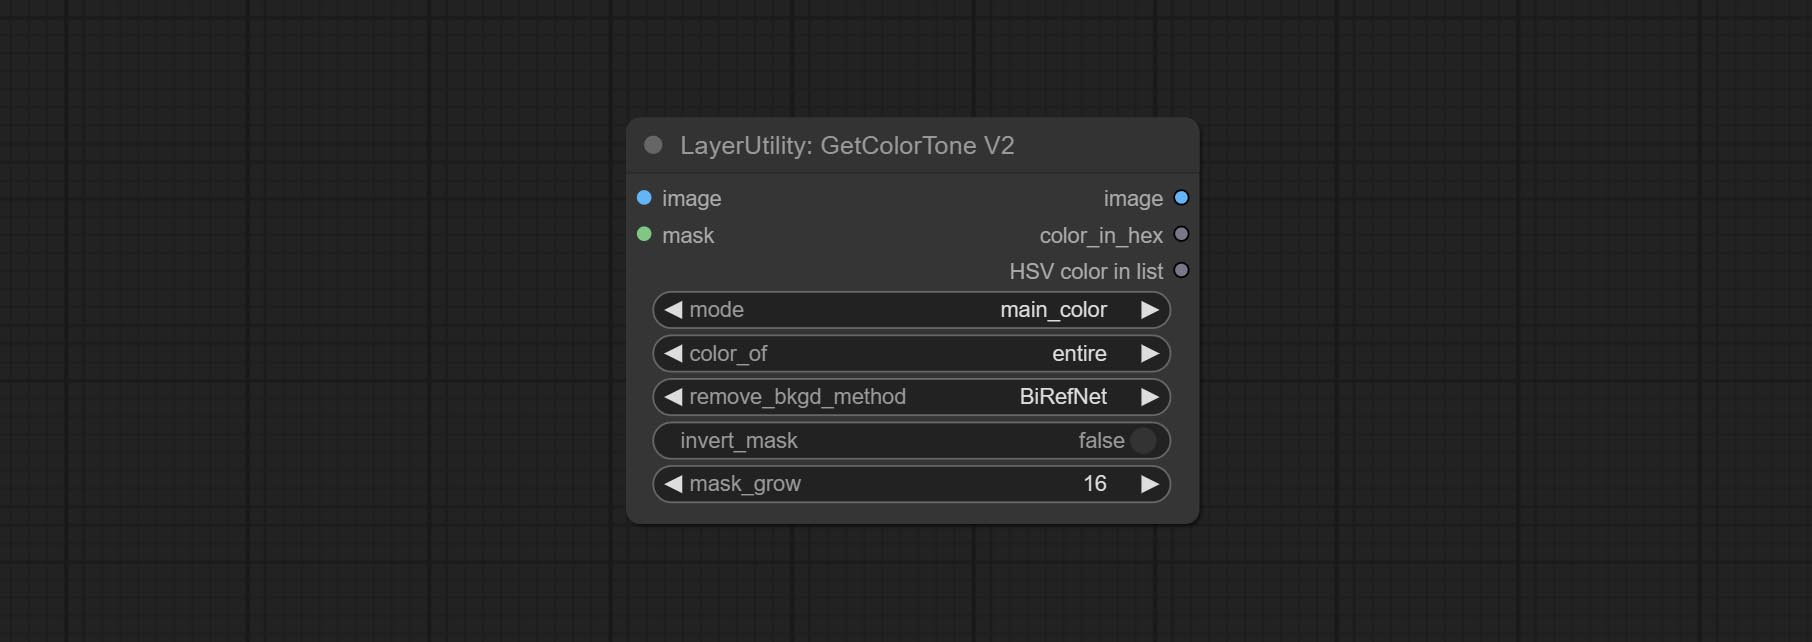
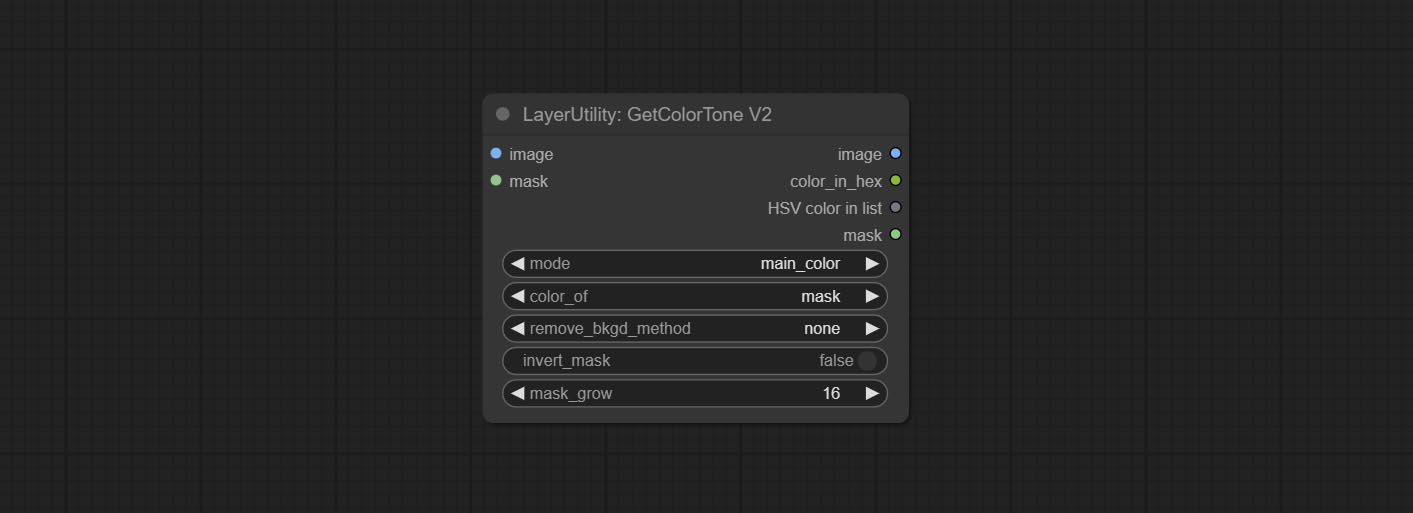
GetColorToneV2 node add 'mask' method of color_of option

Changed region(s): [[0.3425, 0.2807, 0.6539, 0.8421], [0.3425, 0.1871, 0.5605, 0.2495], [0.3425, 0.2807, 0.4048, 0.3743]]

diff --git a/py/get_color_tone_v2.py b/py/get_color_tone_v2.py
@@ -9,8 +9,8 @@ class GetColorToneV2:
 
     @classmethod
     def INPUT_TYPES(self):
-        remove_background_list = ['BiRefNet', 'RMBG 1.4',]
-        subject_list = ['entire', 'background', 'subject']
+        remove_background_list = ['none','BiRefNet', 'RMBG 1.4',]
+        subject_list = ['mask','entire', 'background', 'subject']
         mode_list = ['main_color', 'average']
         return {
             "required": {
@@ -19,15 +19,15 @@ class GetColorToneV2:
                 "color_of": (subject_list,),
                 "remove_bkgd_method": (remove_background_list,),
                 "invert_mask": ("BOOLEAN", {"default": False}),  # 反转mask#
-                "mask_grow": ("INT", {"default": 16, "min": -999, "max": 999, "step": 1}),
+                "mask_grow": ("INT", {"default": 0, "min": -999, "max": 999, "step": 1}),
             },
             "optional": {
                 "mask": ("MASK",),  #
             }
         }
 
-    RETURN_TYPES = ("IMAGE", "STRING", "LIST",)
-    RETURN_NAMES = ("image", "color_in_hex", "HSV color in list",)
+    RETURN_TYPES = ("IMAGE", "STRING", "LIST", "MASK")
+    RETURN_NAMES = ("image", "color_in_hex", "HSV color in list", "mask",)
     FUNCTION = 'get_color_tone_v2'
     CATEGORY = '😺dzNodes/LayerUtility'
 
@@ -38,6 +38,7 @@ class GetColorToneV2:
         _images = []
         _masks = []
         ret_images = []
+        ret_masks = []
         need_rmbg = False
         for i in image:
             _images.append(torch.unsqueeze(i, 0))
@@ -45,14 +46,15 @@ class GetColorToneV2:
             if m.mode == 'RGBA':
                 _masks.append(1 - image2mask(m.split()[-1]))
             else:
-                need_rmbg = True
+                _masks.append(pil2tensor(Image.new("L", (m.width, m.height), color="white")))
+                if remove_bkgd_method != 'none':
+                    need_rmbg = True
+
         if mask is not None:
             if mask.dim() == 2:
                 mask = torch.unsqueeze(mask, 0)
             _masks = []
             for m in mask:
-                if not invert_mask:
-                    m = 1 - m
                 _masks.append(torch.unsqueeze(m, 0))
             need_rmbg = False
 
@@ -71,32 +73,40 @@ class GetColorToneV2:
                 else:
                     _mask = RMBG(_image)
                 _mask = image2mask(_mask)
-                _mask = 1 - _mask
             else:
                 _mask = _masks[i] if i < len(_masks) else _masks[-1]
+
+            if invert_mask:
+                _mask = 1 - _mask
 
             if mask_grow != 0:
                 _mask = expand_mask(_mask, mask_grow, 0)  # 扩张，模糊
 
-            if color_of == 'subject':
-                _mask = 1 - _mask
-
             if color_of == 'entire':
                 blured_image = gaussian_blur(_image, int((_image.width + _image.height) / 400))
             else:
+                if color_of == 'background':
+                    _mask = 1 - _mask
                 _mask = tensor2pil(_mask)
                 pixel_spread_image = pixel_spread(_image, _mask.convert('RGB'))
                 blured_image = gaussian_blur(pixel_spread_image, int((_image.width + _image.height) / 400))
-            if mode == 'main_color':
+
+            ret_color = '#000000'
+            if mode == 'main_color' and color_of != 'mask':
                 ret_color = get_image_color_tone(blured_image)
-            else:
+            elif mode == 'average' and color_of != 'mask':
                 ret_color = get_image_color_average(blured_image)
+            elif mode == 'main_color' and color_of == 'mask':
+                ret_color = get_image_color_tone(blured_image, mask=_mask)
+            elif mode == 'average' and color_of == 'mask':
+                ret_color = get_image_color_average(blured_image, mask=_mask)
 
             ret_image = Image.new('RGB', size=_image.size, color=ret_color)
             ret_images.append(pil2tensor(ret_image))
+            ret_masks.append(pil2tensor(_mask))
         log(f"{NODE_NAME} Processed {len(ret_images)} image(s).", message_type='finish')
         hsv_color = RGB_to_HSV(Hex_to_RGB(ret_color))
-        return (torch.cat(ret_images, dim=0), ret_color, hsv_color,)
+        return (torch.cat(ret_images, dim=0), ret_color, hsv_color, torch.cat(ret_masks, dim=0),)
 
 NODE_CLASS_MAPPINGS = {
     "LayerUtility: GetColorToneV2": GetColorToneV2

diff --git a/py/imagefunc.py b/py/imagefunc.py
@@ -893,12 +893,22 @@ def adjust_levels(image:Image, input_black:int=0, input_white:int=255, midtones:
     img = img.astype(np.uint8)
     return cv22pil(img)
 
-
-def get_image_color_tone(image:Image) -> str:
+def get_image_color_tone(image:Image, mask:Image=None) -> str:
     image = image.convert('RGB')
     max_score = 0.0001
     dominant_color = (255, 255, 255)
-    for count, (r, g, b) in image.getcolors(image.width * image.height):
+    if mask is not None:
+        if mask.mode != 'L':
+            mask = mask.convert('L')
+        canvas = Image.new('RGB', size=image.size, color='black')
+        canvas.paste(image, mask=mask)
+        image = canvas
+
+    all_colors = image.getcolors(image.width * image.height)
+    for count, (r, g, b) in all_colors:
+        if mask is not None:
+            if r + g + b < 2:  # 忽略黑色
+                continue
         saturation = colorsys.rgb_to_hsv(r / 255.0, g / 255.0, b / 255.0)[1]
         y = min(abs(r * 2104 + g * 4130 + b * 802 + 4096 + 131072) >> 13,235)
         y = (y - 16.0) / (235 - 16)
@@ -909,22 +919,29 @@ def get_image_color_tone(image:Image) -> str:
     ret_color = RGB_to_Hex(dominant_color)
     return ret_color
 
-def get_image_color_average(image:Image) -> str:
+def get_image_color_average(image:Image, mask:Image=None) -> str:
     image = image.convert('RGB')
     width, height = image.size
     total_red = 0
     total_green = 0
     total_blue = 0
+    total_pixel =0
     for y in range(height):
         for x in range(width):
+            if mask is not None:
+                if mask.mode != 'L':
+                    mask = mask.convert('L')
+                if mask.getpixel((x, y)) <= 127:
+                    continue
             rgb = image.getpixel((x, y))
             total_red += rgb[0]
             total_green += rgb[1]
             total_blue += rgb[2]
+            total_pixel += 1
 
-    average_red = total_red // (width * height)
-    average_green = total_green // (width * height)
-    average_blue = total_blue // (width * height)
+    average_red = total_red // total_pixel
+    average_green = total_green // total_pixel
+    average_blue = total_blue // total_pixel
     color = (average_red, average_green, average_blue)
     ret_color = RGB_to_Hex(color)
     return ret_color

diff --git a/README_CN.MD b/README_CN.MD
@@ -80,6 +80,7 @@ git clone https://github.com/chflame163/ComfyUI_LayerStyle.git
 ## 更新说明
 <font size="4">**如果本插件更新后出现依赖包错误，请重新安装相关依赖包。
 
+* [GetColorToneV2](#GetColorToneV2) 节点的取色选项增加```mask```方法，可精确获取遮罩内的主色和平均色。
 * [ImageScaleByAspectRatioV2](#ImageScaleByAspectRatioV2) 节点增加background_color选项。 
 * [LUT Apply](#LUT) 节点增加strenght选项。
 * 添加 [AutoAdjustV2](#AutoAdjustV2) 节点，增加可选遮罩输入，增加多种自动调色模式支持。
@@ -800,18 +801,19 @@ ImageScaleByAspectRatio的V2升级版
 
 ### <a id="table1">GetColorToneV2</a>
 GetColorTone的V2升级版。可以指定获取主体或背景的主色或平均色。
-![image](image/get_color_tone_v2_example.jpg)    
+![image](image/get_color_tone_v2_example.jpg)
+![image](image/get_color_tone_v2_example2.jpg)
 
 在GetColorTong基础上做了如下改变:
 ![image](image/get_color_tone_v2_node.jpg)    
-* color_of: 提供三个选项，entire, background和subject, 分别表示选择整个图片，背景，或主体的颜色。
+* color_of: 提供4个选项，mask, entire, background和subject, 分别表示选择遮罩区域，整个图片，背景，或主体的颜色。
 * remove_background_method: 背景识别的方法, 有BiRefNet和RMBG V1.4两种可以选择。
 * invert_mask: 是否反转遮罩。
 * mask_grow: 遮罩扩张。对于subject, 更大的值使获得的颜色更接近主体中心的颜色。
 
 输出:
 * image: 纯色图片输出, 尺寸与输入的图片相同。
-
+* mask: 遮罩输出。
 
 ### <a id="table1">ExtendCanvas</a>
 扩展画布。

diff --git a/README.MD b/README.MD
@@ -80,6 +80,7 @@ When this error has occurred, please check the network environment.
 ## Update
 <font size="4">**If the dependency package error after updating, please reinstall the relevant dependency packages. </font><br />    
 
+* [GetColorToneV2](#GetColorToneV2) node add the ```mask``` method to the color selection option, which can accurately obtain the main color and average color within the mask.
 * [ImageScaleByAspectRatioV2](#ImageScaleByAspectRatioV2) node add the "background_color" option.
 * [LUT Apply](#LUT) Add the "strength" option.
 * Commit [AutoAdjustV2](#AutoAdjustV2) node, add optional mask input and support for multiple automatic color adjustment modes.
@@ -814,13 +815,14 @@ V2 upgrade of GetColorTone. You can specify the dominant or average color to get
 
 The following changes have been made on the basis of GetColorTong:
 ![image](image/get_color_tone_v2_node.jpg)    
-* color_of: Provides three options, entire, background, and subject, to select the color of the entire picture, background, or body, respectively.
+* color_of: Provides 4 options, mask, entire, background, and subject, to select the color of the mask area, entire picture, background, or subject, respectively.
 * remove_background_method: There are two methods of background recognition: BiRefNet and RMBG V1.4.
 * invert_mask: Whether to reverse the mask.
 * mask_grow: Mask expansion. For subject, a larger value brings the obtained color closer to the color at the center of the body.
 
 Output:
 * image: Solid color picture output, the size is the same as the input picture.
+* mask: Mask output.
 
 ### <a id="table1">ExtendCanvas</a>
 Extend the canvas
